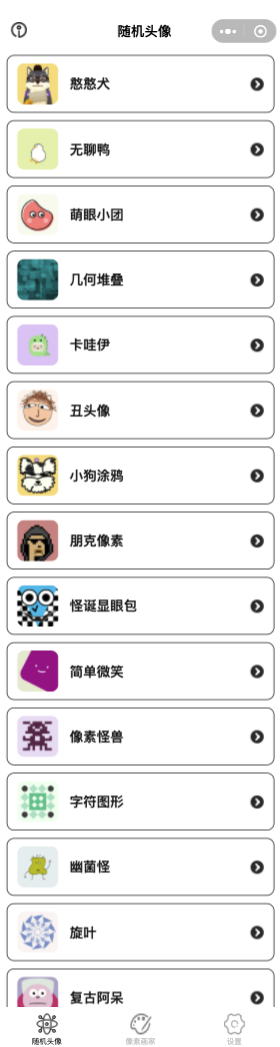
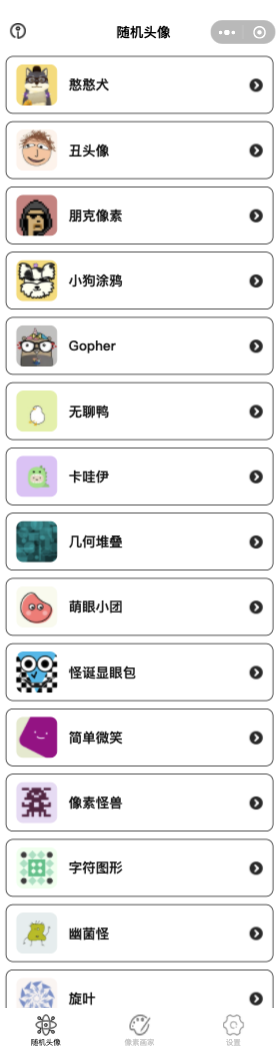
新增Gopher随机头像功能

diff --git a/avatar_generator/pages/setting/setting.vue b/avatar_generator/pages/setting/setting.vue
@@ -6,9 +6,11 @@
 				<text class="title">潦草头像</text>
 				<text class="desc">潦草头像是一款随机生成用户头像的工具类应用</text>
 				<view class="tip" @click="tipAction">
-					<image src="/static/image/coffee.png" class="icon" mode="widthFix" />
-					<text>鼓励一杯咖啡</text>
+					<text>来杯咖啡吧~</text>
 				</view>
+			</view>
+			<view v-if="coffeeCount > 0" class="coffee-bar">
+				<image v-for="_ in coffeeCount" class="coffee" src="/static/image/coffee.png"/>
 			</view>
 			<view class="thrid_part">
 				<view class="h">【开源声明】</view>
@@ -39,10 +41,16 @@
 	</common-page>
 </template>
 
-<script setup>
+<script setup lang="ts">
 	import { onLoad, onUnload } from '@dcloudio/uni-app'
 	import { kOpenSourceProjectList, kMyOpenSources } from '../../model/open_source_project'
-	import { showTextToast } from '../../util/util'
+	import { showTextToast, dateToString, delay } from '../../util/util'
+	import { ref } from 'vue'
+	import { StorageManager } from '../../model/storage_manager'
+	
+	/// 键值-今日咖啡数
+	const kTodayCoffeeKey = 'sk_today_coffee'
+	const coffeeCount = ref(StorageManager.coffeeCount)
 	
 	function copy(link) {
 		uni.setClipboardData({
@@ -63,14 +71,19 @@
 	}
 	
 	function tipAction() {
-		rewardedService.showAd(res => {
-			console.debug('give me a coffee', res)
-			if (res.isEnded) {
-				setTimeout(() => {
-					showTextToast('感谢您的鼓励～')
-				}, 280)
-			}
-		})
+		setTimeout(async () => {
+			uni.hideLoading()
+			await delay(200)
+			await uni.showModal({
+				title: '奖励☕+1，能量满满😊',
+				content: '☕ 可免广告保存图片',
+				showCancel: false,
+				confirmText: '收起能量',
+				confirmColor: '#181818'
+			})
+			coffeeCount.value += 1
+			StorageManager.coffeeCount = coffeeCount.value
+		}, 800)
 	}
 </script>
 
@@ -118,10 +131,26 @@
 				.icon {
 					margin-right: 5px;
 					width: 12px;
+					height: 11px;
 				}
 			}
 		}
-		
+		.coffee-bar {
+			width: 100vw;
+			height: 20px;
+			display: flex;
+			flex-direction: row;
+			align-items: center;
+			justify-content: center;
+			margin-top: 15px;
+			.coffee {
+				width: 14px;
+				height: 13px;
+				&:not(:first-child) {
+					margin-left: 5px;
+				}
+			}
+		}
 		.thrid_part {
 			width: 100%;
 			display: flex;

diff --git a/avatar_generator/pages/random/random_home.vue b/avatar_generator/pages/random/random_home.vue
@@ -32,29 +32,14 @@
 			path: '/subpackages/sub_random/pages/cute_dog/cute_dog'
 		},
 		{
-			title: '无聊鸭',
-			icon: '/static/image/random/random_duck.png',
-			path: '/pages/random/duck/duck'
-		},
-		{
-			title: '萌眼小团',
-			icon: '/static/image/random/random_blobby.png',
-			path: '/subpackages/sub_random/pages/blobby/blobby'
-		},
-		{
-			title: '几何堆叠',
-			icon: '/static/image/random/random_shape_stack.png',
-			path: '/subpackages/sub_random/pages/shape_stack/shape_stack'
-		},
-		{
-			title: '卡哇伊',
-			icon: '/static/image/random/random_kawaii.png',
-			path: '/subpackages/sub_random/pages/kawaii/kawaii'
-		},
-		{
 			title: '丑头像',
 			icon: '/static/image/random/random_ugly.png',
 			path: '/pages/random/ugly/ugly'
+		},
+		{
+			title: '朋克像素',
+			icon: '/static/image/random/randm_punks.png',
+			path: '/pages/random/cryptopunks/cryptopunks'
 		},
 		{
 			title: '小狗涂鸦',
@@ -62,9 +47,29 @@
 			path: '/subpackages/sub_random/pages/draw_puppy/draw_puppy'
 		},
 		{
-			title: '朋克像素',
-			icon: '/static/image/random/randm_punks.png',
-			path: '/pages/random/cryptopunks/cryptopunks'
+			title: 'Gopher',
+			icon: '/static/image/random/random_gopher.png',
+			path: '/subpackages/sub_random/pages/gopher/gopher'
+		},
+		{
+			title: '无聊鸭',
+			icon: '/static/image/random/random_duck.png',
+			path: '/pages/random/duck/duck'
+		},
+		{
+			title: '卡哇伊',
+			icon: '/static/image/random/random_kawaii.png',
+			path: '/subpackages/sub_random/pages/kawaii/kawaii'
+		},
+		{
+			title: '几何堆叠',
+			icon: '/static/image/random/random_shape_stack.png',
+			path: '/subpackages/sub_random/pages/shape_stack/shape_stack'
+		},
+		{
+			title: '萌眼小团',
+			icon: '/static/image/random/random_blobby.png',
+			path: '/subpackages/sub_random/pages/blobby/blobby'
 		},
 		{
 			title: '怪诞显眼包',

diff --git a/avatar_generator/model/app_model.js b/avatar_generator/model/app_model.js
@@ -1,12 +1,14 @@
 export const AppModel = {
 	// svg转png的API
-	svgToPngApi: 'https://你自己的域名/avatar-generator/api/svg/toPng',
+	svgToPngApi: 'https://[你自己的服务器域名]/avatar-generator/api/svg/toPng',
+	// gopher图片资源
+	gopherImagesUrl: 'https://raw.githubusercontent.com/xingxingc/stray_avatar/main/assets/gopher.zip',
 	// cute_doy图片资源
-	cuteDogImagesUrl: 'https://github.com/xingxingc/stray_avatar/tree/main/assets/cute_dog.zip',
+	cuteDogImagesUrl: 'https://raw.githubusercontent.com/xingxingc/stray_avatar/main/assets/cute_dog.zip',
 	// cryptopunks图片地址
 	cryptopunksBaseUrl: 'https://www.larvalabs.com/public/images/cryptopunks/',
 	// draw_puppy图片资源
-	drawPuppyBaseUrl: 'https://github.com/xingxingc/stray_avatar/tree/main/assets/draw_puppy.zip',
+	drawPuppyBaseUrl: 'https://raw.githubusercontent.com/xingxingc/stray_avatar/main/assets/draw_puppy.zip',
 	// 上一次生成png图片的时间
 	lastGenPngTime: null,
 	// 创建一起画画板的参数

diff --git a/avatar_generator/util/util.ts b/avatar_generator/util/util.ts
@@ -139,7 +139,7 @@ export function savePngToFile(base64String) {
 }
 
 /// 延迟执行
-export function delay(ms) :Promise<void> {
+export function delay(ms :number) :Promise<void> {
 	return new Promise((resolve, _) => {
 		setTimeout(() => resolve(), ms)
 	})
@@ -151,4 +151,13 @@ export function showTextToast(text :string, icon :"none" | "success" | "loading"
 		title: text,
 		icon: icon
 	})
+}
+
+/* Date转字符串，格式：yyyy-MM-dd */
+export function dateToString(date :Date) :string {
+	const year = date.getFullYear()
+	const month = String(date.getMonth() + 1).padStart(2, '0')
+	const day = String(date.getDate()).padStart(2, '0')
+	
+	return `${year}-${month}-${day}`
 }

diff --git a/avatar_generator/model/open_source_project.ts b/avatar_generator/model/open_source_project.ts
@@ -23,6 +23,7 @@ export class MyOpenSouces {
 }
 
 export const kOpenSourceProjectList = [
+	new OpenSourceProject("gopherize.me", "matryer", "“Gopher”效仿于该项目", "https://github.com/matryer/gopherize.me"),
 	new OpenSourceProject("randomAvatar", "thisago", "“几何堆叠”效仿于该项目", "https://github.com/thisago/randomAvatar"),
 	new OpenSourceProject("Blobby", "enjeck", "“萌眼小团”的方法基于该项目", "https://github.com/enjeck/Blobby"),
 	new OpenSourceProject("DoggoFace", "ingriddraagen", "“小狗涂鸦”的方法基于该项目", "https://github.com/ingriddraagen/DoggoFace"),

diff --git a/avatar_generator/pages/random/jdenticon/jdenticon.vue b/avatar_generator/pages/random/jdenticon/jdenticon.vue
@@ -47,10 +47,6 @@
 	
 	onLoad(() => {
 		randomInput()
-	}) 
-	
-	onUnload(() => {
-		rewardedService.destory()
 	})
 
 	function chooseBgColor() {

diff --git a/avatar_generator/pages/random/solacon/solacon.vue b/avatar_generator/pages/random/solacon/solacon.vue
@@ -52,10 +52,6 @@
 	
 	onLoad(() => {
 		randomInput()
-	}) 
-	
-	onUnload(() => {
-		rewardedService.destory()
 	})
 
 	function chooseBgColor() {

diff --git a/avatar_generator/pages/random/facitars/facitars.vue b/avatar_generator/pages/random/facitars/facitars.vue
@@ -89,9 +89,6 @@
 	onLoad(() => {
 		generateAvatar()
 	}) 
-	
-	onUnload(() => {
-	})
 </script>
 
 <style scoped lang="scss">

diff --git a/avatar_generator/pages/random/boringbeam/boringbeam.vue b/avatar_generator/pages/random/boringbeam/boringbeam.vue
@@ -239,9 +239,6 @@
 	onLoad(() => {
 		generateData()
 	})
-	
-	onUnload(() => {
-	})
 </script>
 
 <style lang="scss">

diff --git a/avatar_generator/pages/random/cryptopunks/cryptopunks.vue b/avatar_generator/pages/random/cryptopunks/cryptopunks.vue
@@ -170,9 +170,6 @@
 	onLoad(() => {
 		generateFace()
 	})
-	
-	onUnload(() => {
-	})
 </script>
 
 <style lang="scss">

diff --git a/avatar_generator/pages/random/duck/duck.vue b/avatar_generator/pages/random/duck/duck.vue
@@ -822,8 +822,6 @@
 		},
 		onLoad() {
 			this.initialization();
-		},
-		onUnload: () => {
 		}
 	};
 </script>

diff --git a/avatar_generator/pages/random/ugly/ugly.vue b/avatar_generator/pages/random/ugly/ugly.vue
@@ -579,8 +579,6 @@
 		},
 		onLoad() {
 			this.generateFace();
-		},
-		onUnload() {
 		}
 	};
 </script>
